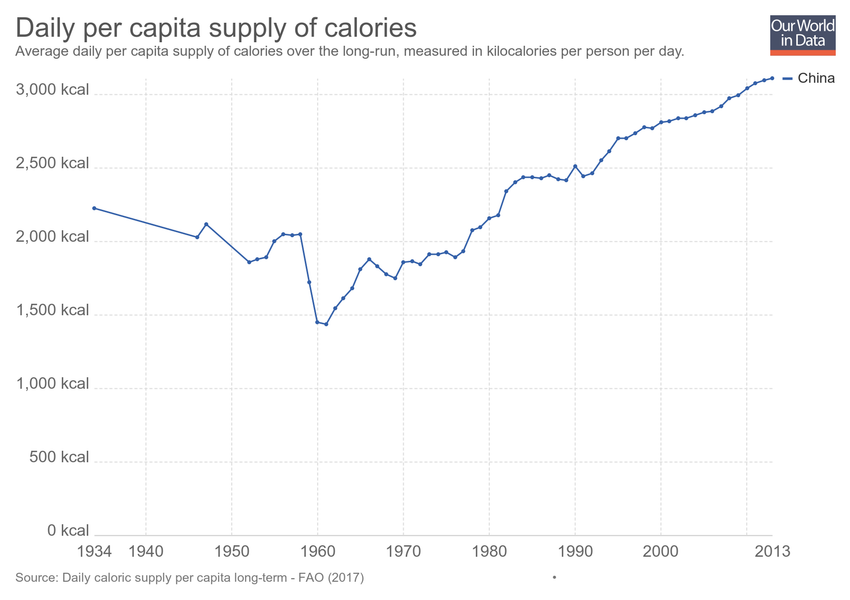
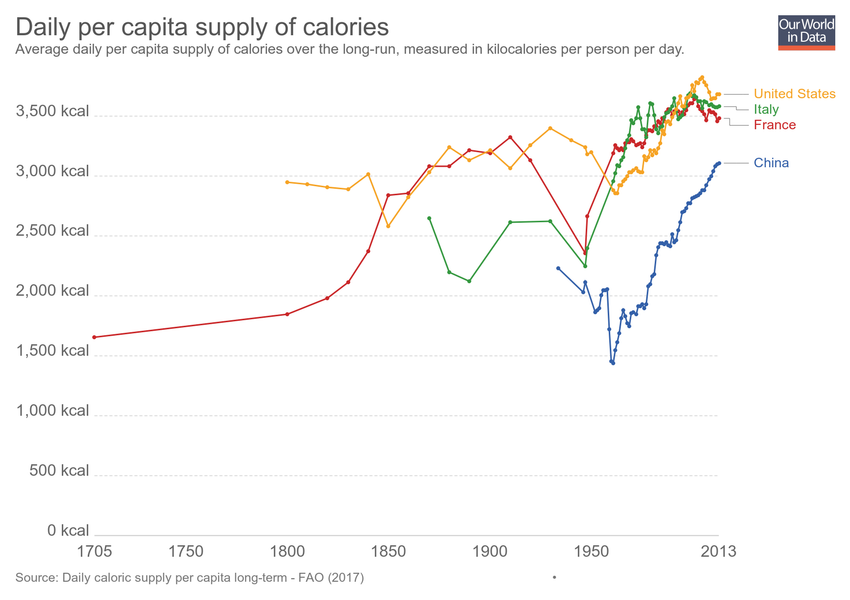
Updating chart daily-per-capita-supply-of-calories

diff --git a/grapher/daily-per-capita-supply-of-calories.html b/grapher/daily-per-capita-supply-of-calories.html
@@ -1,4 +1,4 @@
-<!doctype html><html><head><meta name="viewport" content="width=device-width, initial-scale=1" /><title>Daily per capita supply of calories - Our World in Data</title><meta name="description" content="Average daily per capita supply of calories over the long-run, measured in kilocalories per person per day." /><link rel="canonical" href="https://ourworldindata.org/grapher/daily-per-capita-supply-of-calories" /><meta property="fb:app_id" content="1149943818390250" /><meta property="og:url" content="https://ourworldindata.org/grapher/daily-per-capita-supply-of-calories" /><meta property="og:title" content="Daily per capita supply of calories" /><meta property="og:description" content="Average daily per capita supply of calories over the long-run, measured in kilocalories per person per day." /><meta property="og:image" content="https://ourworldindata.org/grapher/exports/daily-per-capita-supply-of-calories.png?v=1" /><meta property="og:image:width" content="850" /><meta property="og:image:height" content="600" /><meta property="og:site_name" content="Our World in Data" /><meta name="twitter:card" content="summary_large_image" /><meta name="twitter:site" content="@OurWorldInData" /><meta name="twitter:creator" content="@OurWorldInData" /><meta name="twitter:title" content="Daily per capita supply of calories" /><meta name="twitter:description" content="Average daily per capita supply of calories over the long-run, measured in kilocalories per person per day." /><meta name="twitter:image" content="https://ourworldindata.org/grapher/exports/daily-per-capita-supply-of-calories.png?v=1" /><style>
+<!doctype html><html><head><meta name="viewport" content="width=device-width, initial-scale=1" /><title>Daily per capita supply of calories - Our World in Data</title><meta name="description" content="Average daily per capita supply of calories over the long-run, measured in kilocalories per person per day." /><link rel="canonical" href="https://ourworldindata.org/grapher/daily-per-capita-supply-of-calories" /><meta property="fb:app_id" content="1149943818390250" /><meta property="og:url" content="https://ourworldindata.org/grapher/daily-per-capita-supply-of-calories" /><meta property="og:title" content="Daily per capita supply of calories" /><meta property="og:description" content="Average daily per capita supply of calories over the long-run, measured in kilocalories per person per day." /><meta property="og:image" content="https://ourworldindata.org/grapher/exports/daily-per-capita-supply-of-calories.png?v=2" /><meta property="og:image:width" content="850" /><meta property="og:image:height" content="600" /><meta property="og:site_name" content="Our World in Data" /><meta name="twitter:card" content="summary_large_image" /><meta name="twitter:site" content="@OurWorldInData" /><meta name="twitter:creator" content="@OurWorldInData" /><meta name="twitter:title" content="Daily per capita supply of calories" /><meta name="twitter:description" content="Average daily per capita supply of calories over the long-run, measured in kilocalories per person per day." /><meta name="twitter:image" content="https://ourworldindata.org/grapher/exports/daily-per-capita-supply-of-calories.png?v=2" /><style>
         html, body {
             height: 100%;
             margin: 0;
@@ -20,8 +20,8 @@
         }
     </style><noscript><style>
                     figure { display: none !important; }
-                </style></noscript><link rel="stylesheet" href="https://ourworldindata.org/grapher/assets/commons.bundle.a56b9fbdc1e1e6e015d0.css" /><link rel="preload" href="/grapher/data/variables/3590.json?v=1" as="fetch" crossorigin /></head><body class="singleChart"><figure data-grapher-src="/grapher/daily-per-capita-supply-of-calories"></figure><noscript id="fallback"><img src="/grapher/exports/daily-per-capita-supply-of-calories.svg" /><p>Interactive visualization requires JavaScript</p></noscript><script src="https://cdn.polyfill.io/v2/polyfill.min.js?features=es6,fetch"></script><script src="https://ourworldindata.org/grapher/assets/commons.bundle.a56b9fbdc1e1e6e015d0.js"></script><script src="https://ourworldindata.org/grapher/assets/charts.bundle.a56b9fbdc1e1e6e015d0.js"></script><script>
-        var jsonConfig = {"id":819,"map":{"projection":"World","targetYear":1980,"variableId":3590,"timeTolerance":1,"legendStepSize":20,"baseColorScheme":"BuGn","colorSchemeInvert":false,"colorSchemeLabels":[],"colorSchemeValues":[],"defaultProjection":"World","legendDescription":"","customColorsActive":false,"customNumericColors":[],"customCategoryColors":{},"customCategoryLabels":{},"customHiddenCategories":{}},"tab":"chart","note":"","slug":"daily-per-capita-supply-of-calories","type":"LineChart","title":"Daily per capita supply of calories","xAxis":{"scaleType":"linear"},"yAxis":{"min":0,"suffix":"kcal","scaleType":"linear","labelDistance":-10},"version":1,"subtitle":"Average daily per capita supply of calories over the long-run, measured in kilocalories per person per day.","hasMapTab":false,"originUrl":"https://ourworldindata.org/food-per-person/","stackMode":null,"dimensions":[{"id":9160,"order":0,"chartId":819,"display":{"unit":"kcal/person/day","tolerance":5,"isProjection":false},"property":"y","targetYear":null,"variableId":3590}],"entityType":"country","hideLegend":false,"hasChartTab":true,"isPublished":true,"selectedData":[{"index":0,"entityId":171}],"internalNotes":"","addCountryMode":"add-country","hideRelativeToggle":false};
+                </style></noscript><link rel="stylesheet" href="https://ourworldindata.org/grapher/assets/commons.bundle.a56b9fbdc1e1e6e015d0.css" /><link rel="preload" href="/grapher/data/variables/3590.json?v=2" as="fetch" crossorigin /></head><body class="singleChart"><figure data-grapher-src="/grapher/daily-per-capita-supply-of-calories"></figure><noscript id="fallback"><img src="/grapher/exports/daily-per-capita-supply-of-calories.svg" /><p>Interactive visualization requires JavaScript</p></noscript><script src="https://cdn.polyfill.io/v2/polyfill.min.js?features=es6,fetch"></script><script src="https://ourworldindata.org/grapher/assets/commons.bundle.a56b9fbdc1e1e6e015d0.js"></script><script src="https://ourworldindata.org/grapher/assets/charts.bundle.a56b9fbdc1e1e6e015d0.js"></script><script>
+        var jsonConfig = {"id":819,"map":{"projection":"World","targetYear":2013,"variableId":3590,"timeTolerance":1,"baseColorScheme":"BuGn","isManualBuckets":true,"colorSchemeInvert":false,"colorSchemeLabels":[],"colorSchemeValues":[1500,2000,2500,3000,3500,4000],"legendDescription":"","customColorsActive":false,"colorSchemeMinValue":1000,"customNumericColors":[],"customCategoryColors":{},"customCategoryLabels":{},"customHiddenCategories":{}},"tab":"chart","note":"","slug":"daily-per-capita-supply-of-calories","type":"LineChart","title":"Daily per capita supply of calories","xAxis":{"scaleType":"linear"},"yAxis":{"min":0,"suffix":"kcal","scaleType":"linear","labelDistance":-10},"version":2,"subtitle":"Average daily per capita supply of calories over the long-run, measured in kilocalories per person per day.","hasMapTab":true,"originUrl":"https://ourworldindata.org/food-per-person/","stackMode":null,"dimensions":[{"display":{"unit":"kcal/person/day","tolerance":5,"isProjection":false},"property":"y","variableId":3590}],"entityType":"country","hideLegend":false,"hasChartTab":true,"isPublished":true,"selectedData":[{"index":0,"entityId":171},{"index":0,"entityId":3},{"index":0,"entityId":8},{"index":0,"entityId":13}],"internalNotes":"","addCountryMode":"add-country","hideRelativeToggle":false};
         var figure = document.getElementsByTagName("figure")[0];
         try {
             window.App = {};
